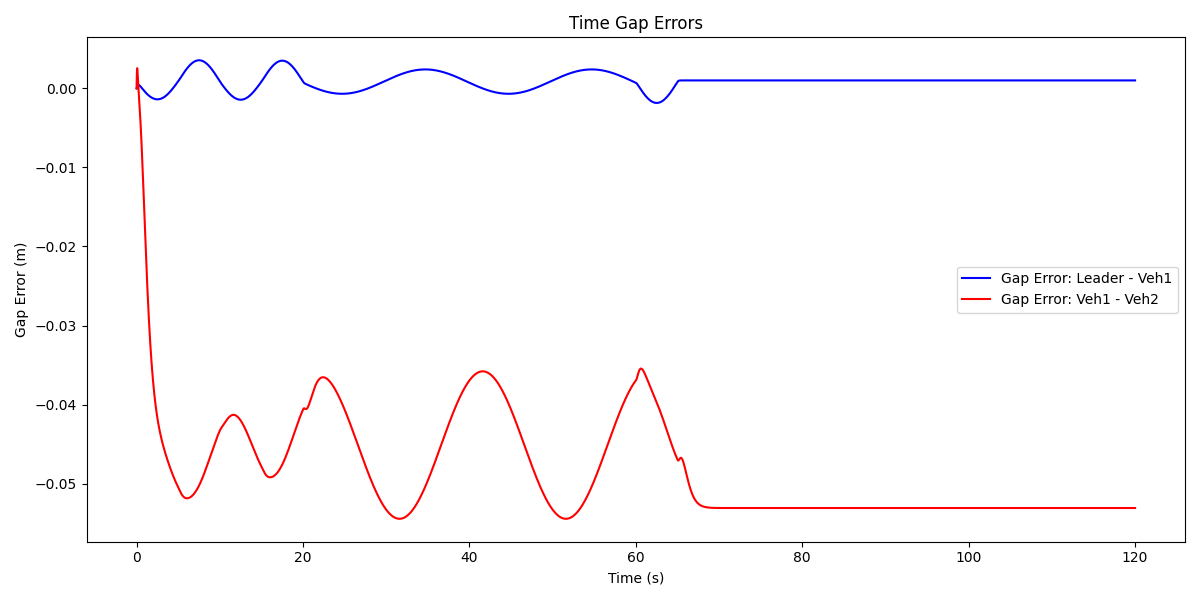
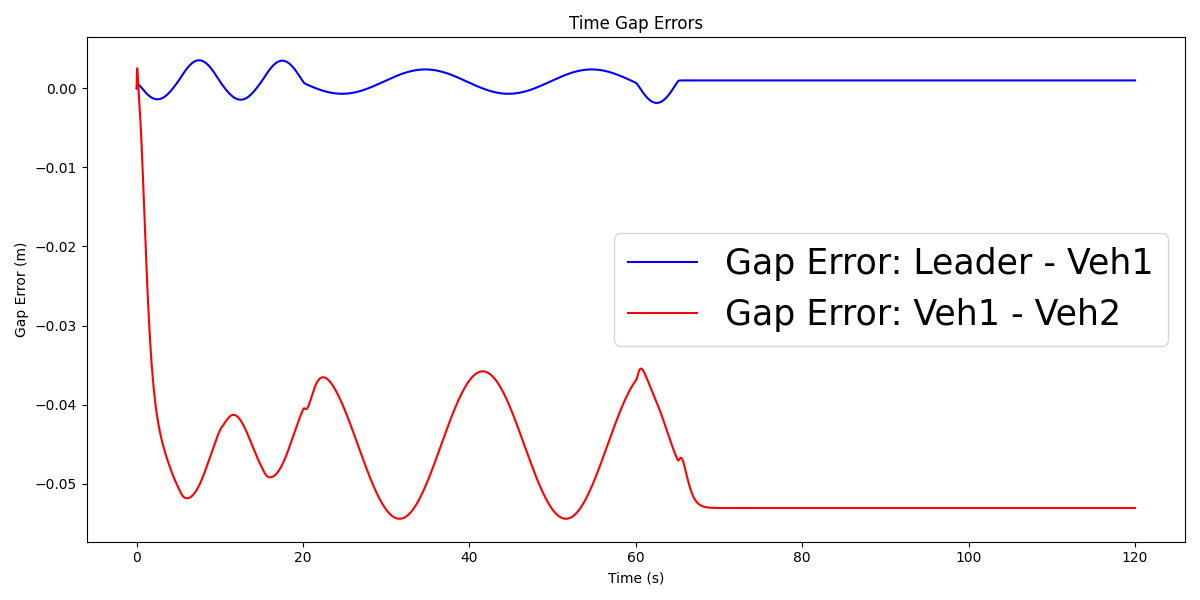
change to correct addresses

Changed region(s): [[0.5858, 0.42, 0.9867, 0.54], [0.5242, 0.51, 0.555, 0.54], [0.5242, 0.42, 0.555, 0.45]]

diff --git a/sim/platoon_sim.py b/sim/platoon_sim.py
@@ -472,11 +472,12 @@ if __name__ == "__main__":
     plt.xlabel("Time (s)")
     plt.ylabel("Speed (m/s)")
     plt.title("Speed Profiles (Smooth Leader)")
-    plt.legend()
+    plt.legend(prop={'size': 25})
     plt.tight_layout()
     fig1.savefig("speed_profiles.png")
-    plt.close(fig1)
-    
+    # plt.close(fig1)
+    plt.show()
+
     # --- Save Gap Errors Figure ---
     fig2 = plt.figure(figsize=(12,6))
     plt.plot(time, gap1, label="Gap Error: Leader - Veh1", color='blue')
@@ -484,11 +485,12 @@ if __name__ == "__main__":
     plt.xlabel("Time (s)")
     plt.ylabel("Gap Error (m)")
     plt.title("Time Gap Errors")
-    plt.legend()
+    plt.legend(prop={'size': 25})
     plt.tight_layout()
     fig2.savefig("gap_errors.png")
-    plt.close(fig2)
-    
+    # plt.close(fig2)
+    plt.show()
+
     # --- Save Speed Errors Figure ---
     fig3 = plt.figure(figsize=(12,6))
     plt.plot(time, sp1, label="Speed Error: Leader - Veh1", color='blue')
@@ -496,10 +498,11 @@ if __name__ == "__main__":
     plt.xlabel("Time (s)")
     plt.ylabel("Speed Error (m/s)")
     plt.title("Speed Errors")
-    plt.legend()
+    plt.legend(prop={'size': 25})
     plt.tight_layout()
     fig3.savefig("speed_errors.png")
-    plt.close(fig3)
+    plt.show()
+    # plt.close(fig3)
     
     # Optionally, display the figures if desired:
     # To display, comment out the plt.close(figX) lines above and then execute:

diff --git a/elisa3-follow-experiment.py b/elisa3-follow-experiment.py
@@ -117,9 +117,11 @@ def main():
     # Choose robot addresses (example addresses; these must match your setup)
     # For this experiment, we assume robot with address 0x1001 is the leader,
     # and robot with address 0x1002 is the follower.
-    leader_addr = 0x1001
-    follower_addr = 0x1002
-
+    leader_addr = 3827
+    follower_addr = 4687
+    elisa_control = Elisa3(3827)
+    elisa_control.setRed(elisa_control.robotAddress[0], 255)
+    # elisa_control.setGreen(elisa_control.robotAddress[1], 255)
     # Instantiate the Elisa3 interface.
     # For simplicity, we assume the Elisa3 class handles multiple robots.
     robot_interface = Elisa3([leader_addr, follower_addr])
